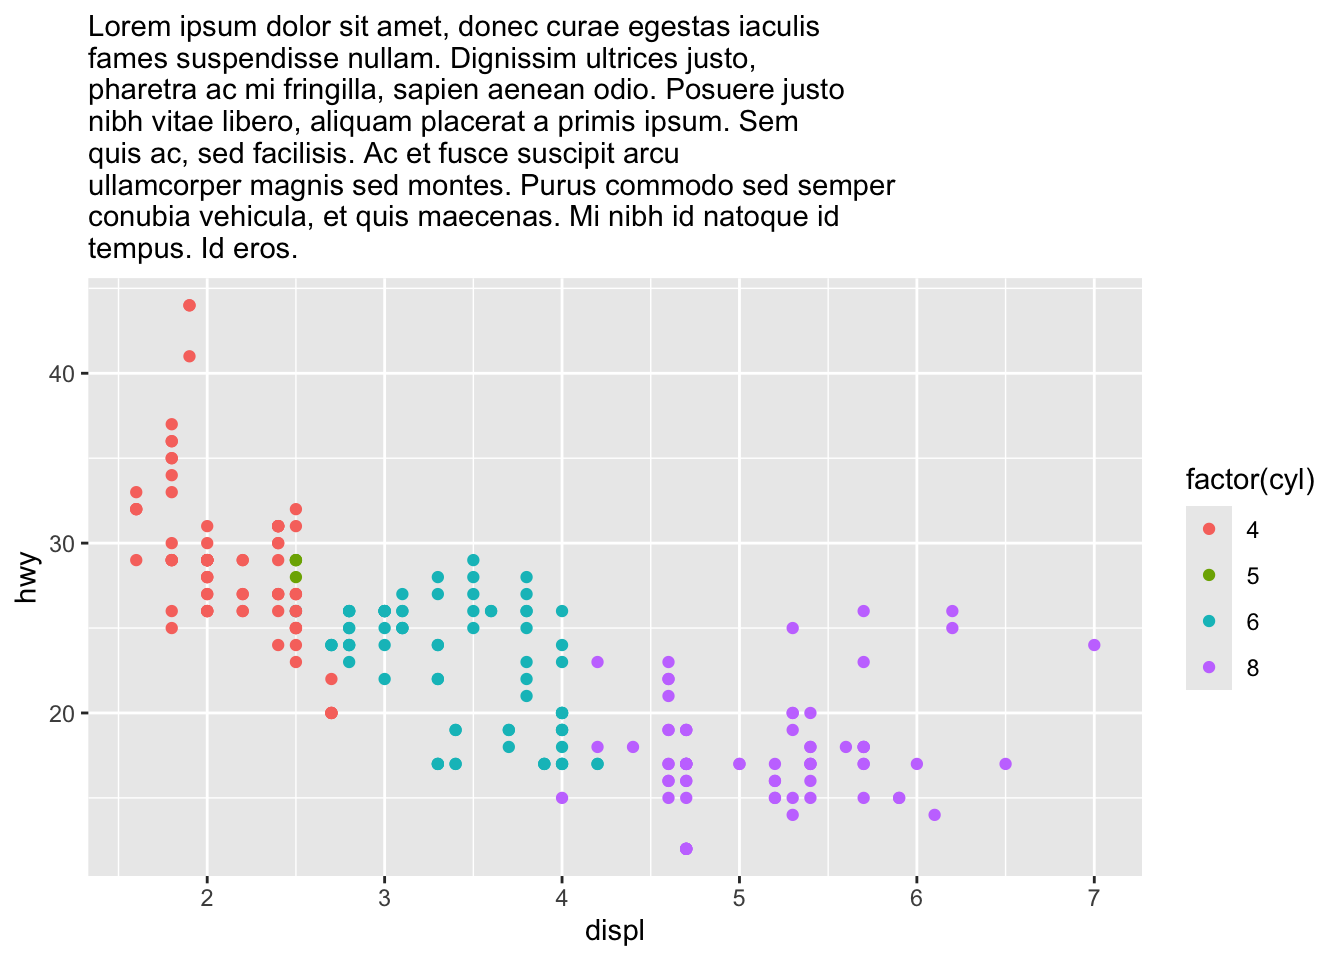
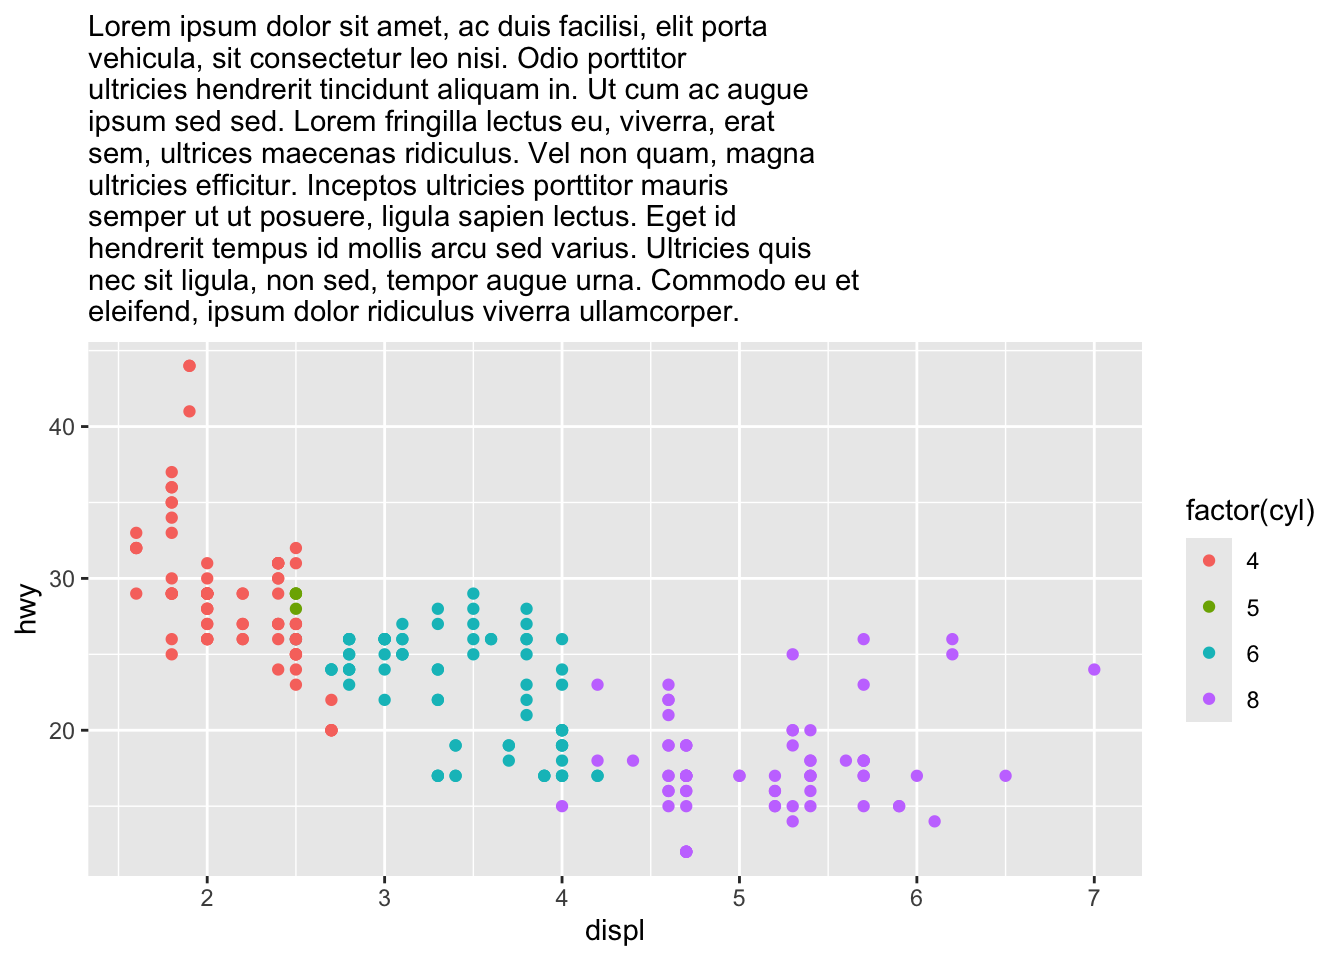
name revisions

diff --git a/data-viz-6.html b/data-viz-6.html
@@ -134,19 +134,21 @@ pre > code.sourceCode > span > a:first-child::before { text-decoration: underlin
 <div class="sourceCode cell-code" id="cb2"><pre class="sourceCode r code-with-copy"><code class="sourceCode r"><span id="cb2-1"><a href="#cb2-1" aria-hidden="true" tabindex="-1"></a>long_string <span class="ot">&lt;-</span> stringi<span class="sc">::</span><span class="fu">stri_rand_lipsum</span>(<span class="dv">1</span>)</span>
 <span id="cb2-2"><a href="#cb2-2" aria-hidden="true" tabindex="-1"></a>long_string</span></code><button title="Copy to Clipboard" class="code-copy-button"><i class="bi"></i></button></pre></div>
 <div class="cell-output cell-output-stdout">
-<pre><code>[1] "Lorem ipsum dolor sit amet, donec curae egestas iaculis fames suspendisse nullam. Dignissim ultrices justo, pharetra ac mi fringilla, sapien aenean odio. Posuere justo nibh vitae libero, aliquam placerat a primis ipsum. Sem quis ac, sed facilisis. Ac et fusce suscipit arcu ullamcorper magnis sed montes. Purus commodo sed semper conubia vehicula, et quis maecenas. Mi nibh id natoque id tempus. Id eros."</code></pre>
+<pre><code>[1] "Lorem ipsum dolor sit amet, ac duis facilisi, elit porta vehicula, sit consectetur leo nisi. Odio porttitor ultricies hendrerit tincidunt aliquam in. Ut cum ac augue ipsum sed sed. Lorem fringilla lectus eu, viverra, erat sem, ultrices maecenas ridiculus. Vel non quam, magna ultricies efficitur. Inceptos ultricies porttitor mauris semper ut ut posuere, ligula sapien lectus. Eget id hendrerit tempus id mollis arcu sed varius. Ultricies quis nec sit ligula, non sed, tempor augue urna. Commodo eu et eleifend, ipsum dolor ridiculus viverra ullamcorper."</code></pre>
 </div>
 <div class="sourceCode cell-code" id="cb4"><pre class="sourceCode r code-with-copy"><code class="sourceCode r"><span id="cb4-1"><a href="#cb4-1" aria-hidden="true" tabindex="-1"></a>short_strings <span class="ot">&lt;-</span> <span class="fu">strwrap</span>(long_string, <span class="at">width=</span><span class="dv">60</span>)</span>
 <span id="cb4-2"><a href="#cb4-2" aria-hidden="true" tabindex="-1"></a>short_strings</span></code><button title="Copy to Clipboard" class="code-copy-button"><i class="bi"></i></button></pre></div>
 <div class="cell-output cell-output-stdout">
-<pre><code>[1] "Lorem ipsum dolor sit amet, donec curae egestas iaculis"    
-[2] "fames suspendisse nullam. Dignissim ultrices justo,"        
-[3] "pharetra ac mi fringilla, sapien aenean odio. Posuere justo"
-[4] "nibh vitae libero, aliquam placerat a primis ipsum. Sem"    
-[5] "quis ac, sed facilisis. Ac et fusce suscipit arcu"          
-[6] "ullamcorper magnis sed montes. Purus commodo sed semper"    
-[7] "conubia vehicula, et quis maecenas. Mi nibh id natoque id"  
-[8] "tempus. Id eros."                                           </code></pre>
+<pre><code> [1] "Lorem ipsum dolor sit amet, ac duis facilisi, elit porta"  
+ [2] "vehicula, sit consectetur leo nisi. Odio porttitor"        
+ [3] "ultricies hendrerit tincidunt aliquam in. Ut cum ac augue" 
+ [4] "ipsum sed sed. Lorem fringilla lectus eu, viverra, erat"   
+ [5] "sem, ultrices maecenas ridiculus. Vel non quam, magna"     
+ [6] "ultricies efficitur. Inceptos ultricies porttitor mauris"  
+ [7] "semper ut ut posuere, ligula sapien lectus. Eget id"       
+ [8] "hendrerit tempus id mollis arcu sed varius. Ultricies quis"
+ [9] "nec sit ligula, non sed, tempor augue urna. Commodo eu et" 
+[10] "eleifend, ipsum dolor ridiculus viverra ullamcorper."      </code></pre>
 </div>
 <div class="sourceCode cell-code" id="cb6"><pre class="sourceCode r code-with-copy"><code class="sourceCode r"><span id="cb6-1"><a href="#cb6-1" aria-hidden="true" tabindex="-1"></a><span class="co"># collapse with newlines</span></span>
 <span id="cb6-2"><a href="#cb6-2" aria-hidden="true" tabindex="-1"></a>p <span class="sc">+</span> <span class="fu">labs</span>(<span class="at">subtitle =</span> <span class="fu">paste</span>(short_strings, <span class="at">collapse=</span><span class="st">"</span><span class="sc">\n</span><span class="st">"</span>))</span></code><button title="Copy to Clipboard" class="code-copy-button"><i class="bi"></i></button></pre></div>
@@ -451,20 +453,22 @@ pre > code.sourceCode > span > a:first-child::before { text-decoration: underlin
 <div class="sourceCode cell-code" id="cb27"><pre class="sourceCode r code-with-copy"><code class="sourceCode r"><span id="cb27-1"><a href="#cb27-1" aria-hidden="true" tabindex="-1"></a><span class="co"># define divisions</span></span>
 <span id="cb27-2"><a href="#cb27-2" aria-hidden="true" tabindex="-1"></a>divisions <span class="ot">&lt;-</span> <span class="fu">c</span>(<span class="fl">2.6</span>, <span class="fl">4.1</span>)</span>
 <span id="cb27-3"><a href="#cb27-3" aria-hidden="true" tabindex="-1"></a><span class="co"># define dataframe</span></span>
-<span id="cb27-4"><a href="#cb27-4" aria-hidden="true" tabindex="-1"></a>df.rect <span class="ot">&lt;-</span> <span class="fu">data.frame</span>(</span>
-<span id="cb27-5"><a href="#cb27-5" aria-hidden="true" tabindex="-1"></a>  <span class="at">xmin =</span> <span class="fu">c</span>(<span class="sc">-</span><span class="cn">Inf</span>, divisions),<span class="co"># makes the rectangles cover the whole area</span></span>
-<span id="cb27-6"><a href="#cb27-6" aria-hidden="true" tabindex="-1"></a>  <span class="at">xmax =</span> <span class="fu">c</span>(divisions, <span class="cn">Inf</span>), <span class="co"># makes the rectangles cover the whole area</span></span>
-<span id="cb27-7"><a href="#cb27-7" aria-hidden="true" tabindex="-1"></a>  <span class="at">ymin =</span> <span class="sc">-</span><span class="cn">Inf</span>, <span class="co"># makes the rectangles cover the whole area</span></span>
-<span id="cb27-8"><a href="#cb27-8" aria-hidden="true" tabindex="-1"></a>  <span class="at">ymax =</span> <span class="cn">Inf</span>, <span class="co"># makes the rectangles cover the whole area</span></span>
-<span id="cb27-9"><a href="#cb27-9" aria-hidden="true" tabindex="-1"></a>  <span class="at">cyl =</span>  <span class="fu">c</span>(<span class="dv">4</span>, <span class="dv">6</span>, <span class="dv">8</span>)</span>
-<span id="cb27-10"><a href="#cb27-10" aria-hidden="true" tabindex="-1"></a>)</span>
-<span id="cb27-11"><a href="#cb27-11" aria-hidden="true" tabindex="-1"></a><span class="co"># plotting data</span></span>
-<span id="cb27-12"><a href="#cb27-12" aria-hidden="true" tabindex="-1"></a><span class="fu">ggplot</span>(mpg) <span class="sc">+</span></span>
-<span id="cb27-13"><a href="#cb27-13" aria-hidden="true" tabindex="-1"></a>  <span class="fu">aes</span>(<span class="at">fill=</span><span class="fu">factor</span>(cyl)) <span class="sc">+</span></span>
-<span id="cb27-14"><a href="#cb27-14" aria-hidden="true" tabindex="-1"></a>  <span class="fu">geom_rect</span>(<span class="fu">aes</span>(<span class="at">xmin=</span>xmin, <span class="at">xmax=</span>xmax, <span class="at">ymin=</span>ymin, <span class="at">ymax=</span>ymax),</span>
-<span id="cb27-15"><a href="#cb27-15" aria-hidden="true" tabindex="-1"></a>            df.rect, <span class="at">alpha=</span><span class="fl">0.2</span>, <span class="at">show.legend=</span><span class="cn">FALSE</span>) <span class="sc">+</span></span>
-<span id="cb27-16"><a href="#cb27-16" aria-hidden="true" tabindex="-1"></a>  <span class="fu">geom_point</span>(<span class="fu">aes</span>(displ, hwy, <span class="at">color=</span><span class="fu">factor</span>(cyl))) <span class="sc">+</span></span>
-<span id="cb27-17"><a href="#cb27-17" aria-hidden="true" tabindex="-1"></a>  <span class="fu">theme_bw</span>()</span></code><button title="Copy to Clipboard" class="code-copy-button"><i class="bi"></i></button></pre></div>
+<span id="cb27-4"><a href="#cb27-4" aria-hidden="true" tabindex="-1"></a>divisions <span class="ot">&lt;-</span> <span class="fu">c</span>(<span class="fl">2.6</span>, <span class="fl">4.1</span>)</span>
+<span id="cb27-5"><a href="#cb27-5" aria-hidden="true" tabindex="-1"></a>df.rect <span class="ot">&lt;-</span> <span class="fu">data.frame</span>(</span>
+<span id="cb27-6"><a href="#cb27-6" aria-hidden="true" tabindex="-1"></a>  <span class="at">xmin =</span> <span class="fu">c</span>(<span class="sc">-</span><span class="cn">Inf</span>, divisions), <span class="co"># inf makes the rectangle cover the whole area</span></span>
+<span id="cb27-7"><a href="#cb27-7" aria-hidden="true" tabindex="-1"></a>  <span class="at">xmax =</span> <span class="fu">c</span>(divisions, <span class="cn">Inf</span>),</span>
+<span id="cb27-8"><a href="#cb27-8" aria-hidden="true" tabindex="-1"></a>  <span class="at">ymin =</span> <span class="sc">-</span><span class="cn">Inf</span>,</span>
+<span id="cb27-9"><a href="#cb27-9" aria-hidden="true" tabindex="-1"></a>  <span class="at">ymax =</span> <span class="cn">Inf</span>,</span>
+<span id="cb27-10"><a href="#cb27-10" aria-hidden="true" tabindex="-1"></a>  <span class="at">cyl =</span> <span class="fu">factor</span>(<span class="fu">c</span>(<span class="dv">4</span>, <span class="dv">6</span>, <span class="dv">8</span>), <span class="at">levels=</span><span class="fu">c</span>(<span class="dv">4</span>, <span class="dv">5</span>, <span class="dv">6</span>, <span class="dv">8</span>))</span>
+<span id="cb27-11"><a href="#cb27-11" aria-hidden="true" tabindex="-1"></a>)</span>
+<span id="cb27-12"><a href="#cb27-12" aria-hidden="true" tabindex="-1"></a></span>
+<span id="cb27-13"><a href="#cb27-13" aria-hidden="true" tabindex="-1"></a><span class="co"># plotting data</span></span>
+<span id="cb27-14"><a href="#cb27-14" aria-hidden="true" tabindex="-1"></a><span class="fu">ggplot</span>(mpg) <span class="sc">+</span></span>
+<span id="cb27-15"><a href="#cb27-15" aria-hidden="true" tabindex="-1"></a>  <span class="fu">geom_rect</span>(<span class="fu">aes</span>(<span class="at">xmin=</span>xmin, <span class="at">xmax=</span>xmax, <span class="at">ymin=</span>ymin, <span class="at">ymax=</span>ymax, <span class="at">fill=</span>cyl),</span>
+<span id="cb27-16"><a href="#cb27-16" aria-hidden="true" tabindex="-1"></a>            df.rect, <span class="at">alpha=</span>.<span class="dv">2</span>, <span class="at">show.legend=</span><span class="cn">FALSE</span>) <span class="sc">+</span></span>
+<span id="cb27-17"><a href="#cb27-17" aria-hidden="true" tabindex="-1"></a>  <span class="fu">scale_fill_discrete</span>(<span class="at">drop=</span><span class="cn">FALSE</span>) <span class="sc">+</span></span>
+<span id="cb27-18"><a href="#cb27-18" aria-hidden="true" tabindex="-1"></a>  <span class="fu">geom_point</span>(<span class="fu">aes</span>(displ, hwy, <span class="at">color=</span><span class="fu">factor</span>(cyl))) <span class="sc">+</span></span>
+<span id="cb27-19"><a href="#cb27-19" aria-hidden="true" tabindex="-1"></a>  <span class="fu">theme_bw</span>()</span></code><button title="Copy to Clipboard" class="code-copy-button"><i class="bi"></i></button></pre></div>
 <div class="cell-output-display">
 <div>
 <figure class="figure">

diff --git a/data-viz-3.html b/data-viz-3.html
@@ -7,7 +7,7 @@
 <meta name="viewport" content="width=device-width, initial-scale=1.0, user-scalable=yes">
 
 
-<title>Tutorial 3</title>
+<title>Coordinate Systems</title>
 <style>
 code{white-space: pre-wrap;}
 span.smallcaps{font-variant: small-caps;}
@@ -81,7 +81,7 @@ pre > code.sourceCode > span > a:first-child::before { text-decoration: underlin
 
 <header id="title-block-header" class="quarto-title-block default">
 <div class="quarto-title">
-<h1 class="title">Tutorial 3</h1>
+<h1 class="title">Coordinate Systems</h1>
 </div>
 
 
@@ -98,8 +98,6 @@ pre > code.sourceCode > span > a:first-child::before { text-decoration: underlin
 </header>
 
 
-<section id="coordinate-systems" class="level1">
-<h1><strong>Coordinate Systems</strong></h1>
 <div class="cell">
 <div class="sourceCode cell-code" id="cb1"><pre class="sourceCode r code-with-copy"><code class="sourceCode r"><span id="cb1-1"><a href="#cb1-1" aria-hidden="true" tabindex="-1"></a><span class="fu">library</span>(ggplot2)</span></code><button title="Copy to Clipboard" class="code-copy-button"><i class="bi"></i></button></pre></div>
 </div>
@@ -374,7 +372,6 @@ pre > code.sourceCode > span > a:first-child::before { text-decoration: underlin
 </div>
 </div>
 <p>This is a better way to do maps. It will scale to fix the coordinates.</p>
-</section>
 </section>
 
 </main>
